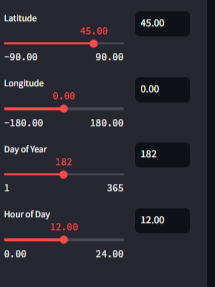
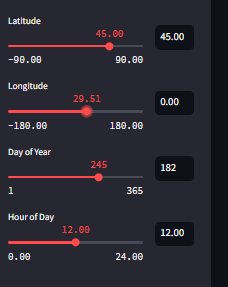
Agent query: Can you verify if: 1. The sliders and number inputs stay synchronized when either one is changed, 2. The values are properly maintained in the session state, and 3. All parameters (latitude, longitude, day of year, hour) work correctly with this synchronization?

diff --git a/main.py b/main.py
@@ -12,6 +12,12 @@ def main():
     st.title("Solar Panel Placement Optimizer")
     st.write("Physics-Informed Neural Network for Optimal Solar Panel Placement")
     
+    def update_param(param_name):
+        if f'{param_name}_slider' in st.session_state and f'{param_name}_input' in st.session_state:
+            value = st.session_state[f'{param_name}_slider']
+            st.session_state[f'{param_name}_input'] = value
+            st.session_state[param_name] = value
+
     # Initialize session state
     if 'latitude' not in st.session_state:
         st.session_state.latitude = 45.0
@@ -19,6 +25,10 @@ def main():
         st.session_state.longitude = 0.0
     if 'show_map' not in st.session_state:
         st.session_state.show_map = False
+    if 'day_of_year' not in st.session_state:
+        st.session_state.day_of_year = 182
+    if 'hour' not in st.session_state:
+        st.session_state.hour = 12.0
     
     # Initialize physics model at the start
     physics_model = SolarPhysicsIdeal()
@@ -42,57 +52,79 @@ def main():
     # Latitude input with slider and number input
     lat_col1, lat_col2 = st.sidebar.columns([3, 1])
     with lat_col1:
-        latitude = st.slider("Latitude", -90.0, 90.0,
-            value=float(st.session_state.get('latitude', 45.0)),
-            key='latitude_slider'
+        latitude = st.slider(
+            "Latitude", -90.0, 90.0,
+            value=st.session_state.get('latitude', 45.0),
+            key='latitude_slider',
+            on_change=lambda: update_param('latitude')
         )
     with lat_col2:
-        st.write("")  # Add small spacing
-        latitude = st.number_input("", -90.0, 90.0,
-            value=float(st.session_state.get('latitude', 45.0)),
+        st.write("")
+        latitude = st.number_input(
+            "", -90.0, 90.0,
+            value=st.session_state.get('latitude', 45.0),
             key='latitude_input',
-            label_visibility="collapsed"
+            label_visibility="collapsed",
+            on_change=lambda: update_param('latitude')
         )
     
     # Longitude input with slider and number input
     lon_col1, lon_col2 = st.sidebar.columns([3, 1])
     with lon_col1:
-        longitude = st.slider("Longitude", -180.0, 180.0,
-            value=float(st.session_state.get('longitude', 0.0)),
-            key='longitude_slider'
+        longitude = st.slider(
+            "Longitude", -180.0, 180.0,
+            value=st.session_state.get('longitude', 0.0),
+            key='longitude_slider',
+            on_change=lambda: update_param('longitude')
         )
     with lon_col2:
-        st.write("")  # Add small spacing
-        longitude = st.number_input("", -180.0, 180.0,
-            value=float(st.session_state.get('longitude', 0.0)),
+        st.write("")
+        longitude = st.number_input(
+            "", -180.0, 180.0,
+            value=st.session_state.get('longitude', 0.0),
             key='longitude_input',
-            label_visibility="collapsed"
+            label_visibility="collapsed",
+            on_change=lambda: update_param('longitude')
         )
     
     # Day of Year input with slider and number input
     day_col1, day_col2 = st.sidebar.columns([3, 1])
     with day_col1:
-        day_of_year = st.slider("Day of Year", 1, 365, 182,
-            key='day_slider'
+        day_of_year = st.slider(
+            "Day of Year", 1, 365,
+            value=st.session_state.get('day_of_year', 182),
+            key='day_of_year_slider',
+            on_change=lambda: update_param('day_of_year')
         )
     with day_col2:
-        st.write("")  # Add small spacing
-        day_of_year = st.number_input("", 1, 365, 182,
-            key='day_input',
-            label_visibility="collapsed"
+        st.write("")
+        day_of_year = st.number_input(
+            "", 1, 365,
+            value=st.session_state.get('day_of_year', 182),
+            key='day_of_year_input',
+            label_visibility="collapsed",
+            on_change=lambda: update_param('day_of_year')
         )
     
     # Hour of Day input with slider and number input
     hour_col1, hour_col2 = st.sidebar.columns([3, 1])
     with hour_col1:
-        hour = st.slider("Hour of Day", 0.0, 24.0, 12.0, 0.1,
-            key='hour_slider'
+        hour = st.slider(
+            "Hour of Day", 0.0, 24.0,
+            value=st.session_state.get('hour', 12.0),
+            key='hour_slider',
+            step=0.1,
+            on_change=lambda: update_param('hour')
         )
     with hour_col2:
-        st.write("")  # Add small spacing
-        hour = st.number_input("", 0.0, 24.0, 12.0, 0.1,
+        st.write("")
+        hour = st.number_input(
+            "", 0.0, 24.0,
+            value=st.session_state.get('hour', 12.0),
             key='hour_input',
-            label_visibility="collapsed"
+            step=0.1,
+            label_visibility="collapsed",
+            on_change=lambda: update_param('hour')
         )
     
     # Update session state when values change
